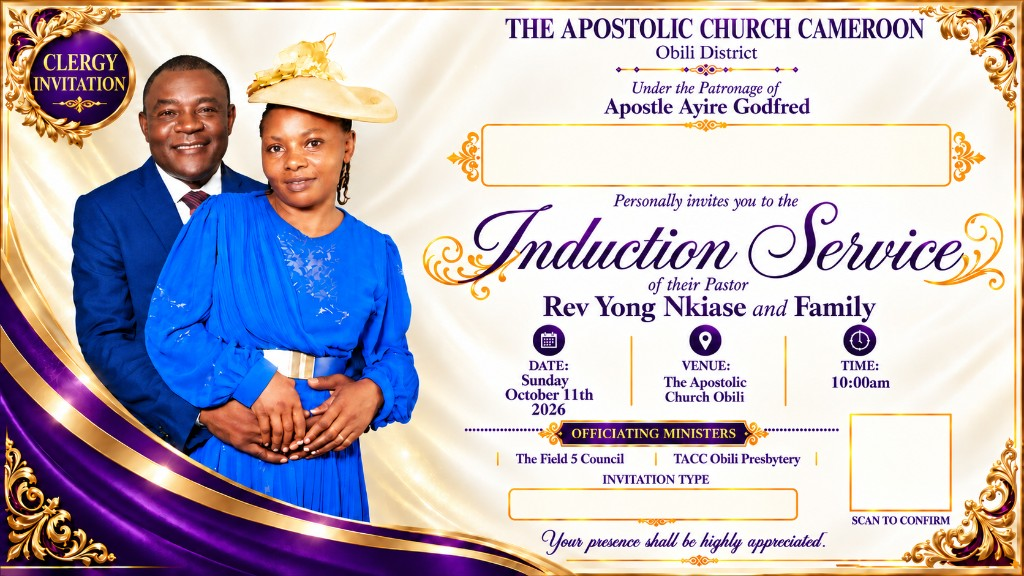
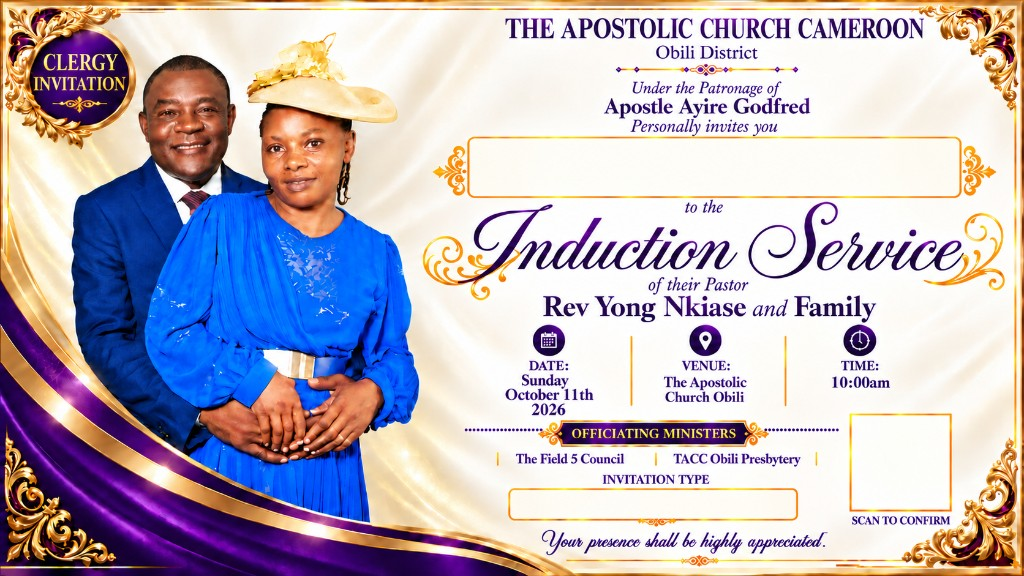
Use the final Standard, Gold, and Clergy invitation artwork.

diff --git a/laravel-app/app/Services/YongInvitationService.php b/laravel-app/app/Services/YongInvitationService.php
@@ -390,8 +390,8 @@ class YongInvitationService
         }
         $ink = $this->inkColor($img, $type);
         $font = $this->fontPath();
-        $this->drawCentered($img, $name, $font, 22, 478, 132, 464, 50, $ink);
-        $this->drawCentered($img, $typeLabel, $font, 13, 518, 494, 272, 22, $ink);
+        $this->drawCentered($img, $name, $font, 22, 484, 148, 460, 50, $ink);
+        $this->drawCentered($img, $typeLabel, $font, 13, 512, 493, 280, 20, $ink);
 
         $qrFile = $dest.'.qr.png';
         $this->writeQr($passUrl, $qrFile, 240);
